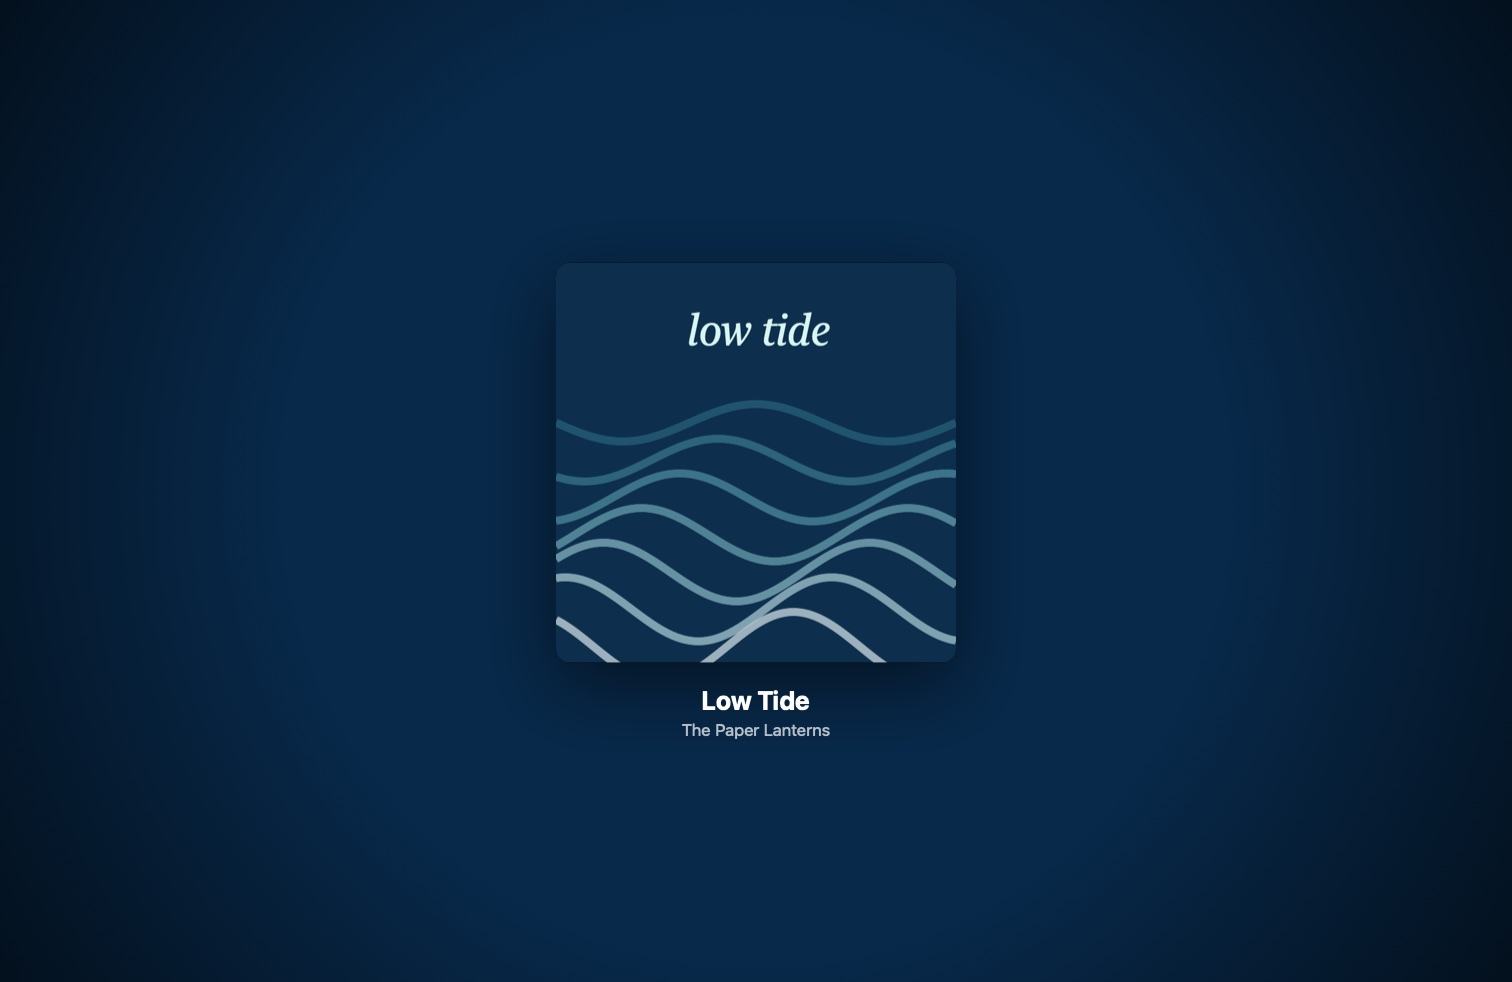
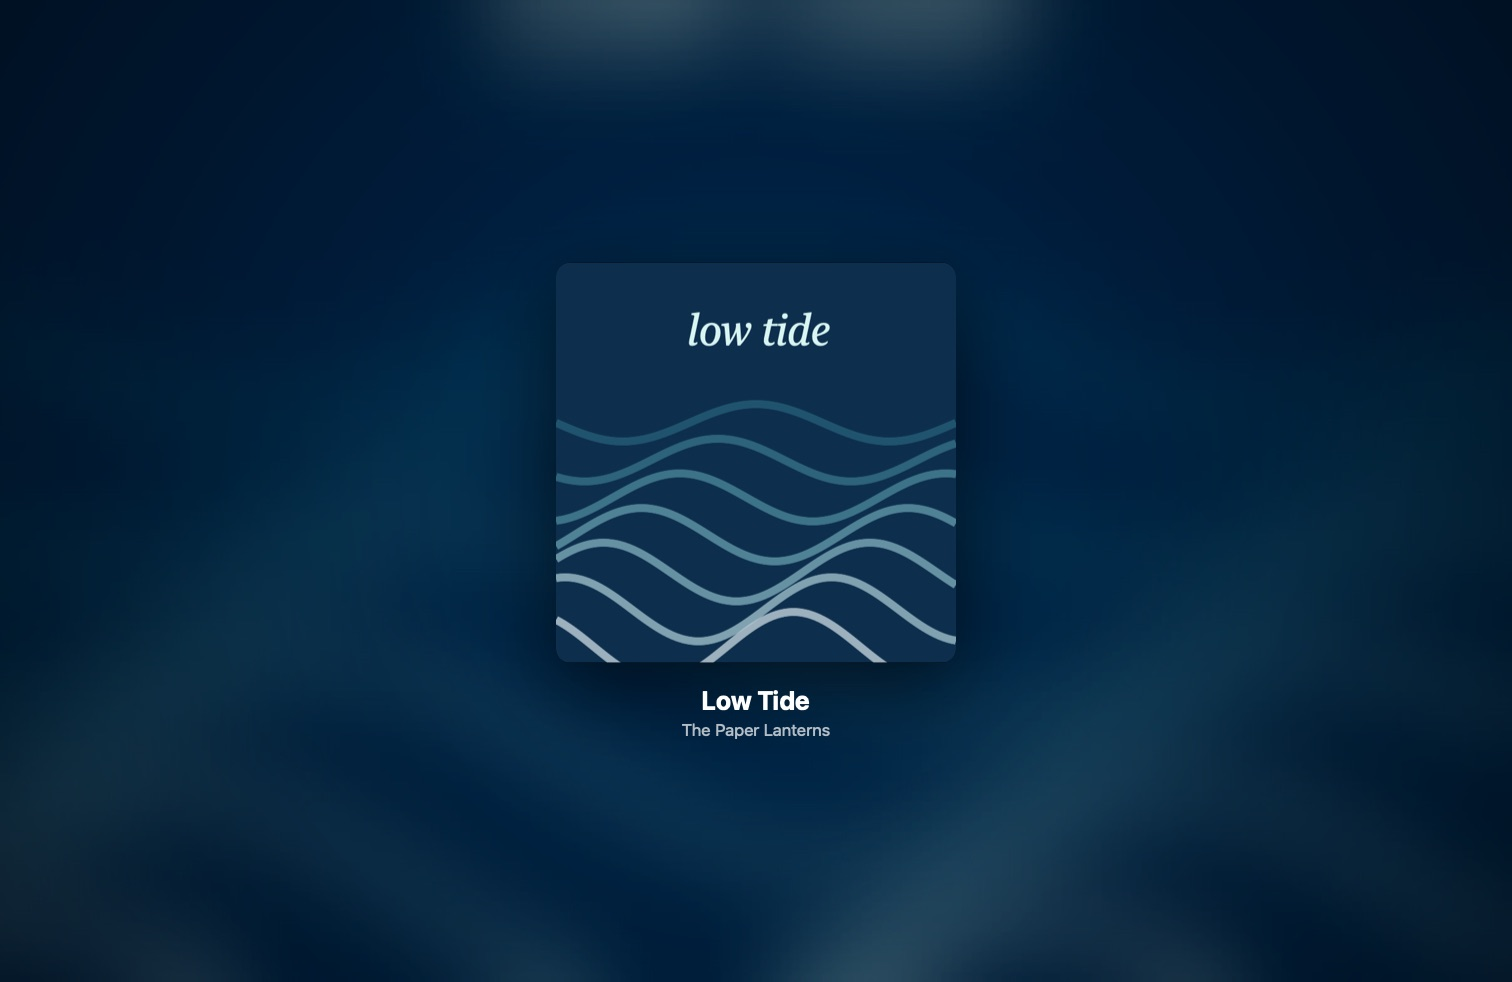
Website from ShawNotch d59cc93

Changed region(s): [[0.5284, 0.8859, 0.6528, 1.0], [0.5284, 0.0, 0.6839, 0.0611], [0.3419, 0.0, 0.4974, 0.0611]]

diff --git a/index.html b/index.html
@@ -420,6 +420,13 @@ p { margin: 0; }
 .record span span { font-size: 13.5px; color: var(--muted); }
 .record[aria-pressed="true"] { border-color: color-mix(in srgb, var(--draw) 70%, #fff 10%); background: color-mix(in srgb, var(--draw) 16%, transparent); }
 .record[aria-pressed="true"] img { transform: rotate(-60deg); }
+/* What's behind the cover, as Settings → Music Mode → Poster background picks it. */
+.backdrops { flex-basis: 100%; display: flex; flex-wrap: wrap; align-items: center; justify-content: center; gap: 10px 14px; font: 500 12px/1 var(--mono); letter-spacing: 0.06em; text-transform: uppercase; color: var(--muted); }
+.seg { display: inline-flex; padding: 4px; border-radius: 999px; border: 1px solid var(--line); background: rgba(255, 255, 255, 0.03); }
+.seg button { padding: 9px 16px; border: 0; border-radius: 999px; background: none; color: var(--muted); font: 600 14px/1 var(--body); letter-spacing: 0; text-transform: none; cursor: pointer; transition: background-color 0.25s ease, color 0.25s ease; }
+.seg button:hover { color: var(--ink); }
+.seg button[aria-pressed="true"] { background: rgba(255, 255, 255, 0.12); color: var(--ink); box-shadow: inset 0 0 0 1px rgba(255, 255, 255, 0.1); }
+.seg button:focus-visible { outline: 2px solid var(--brand); outline-offset: 2px; }
 .switch { display: inline-flex; align-items: center; gap: 12px; padding: 7px 18px 7px 8px; border-radius: 999px; border: 1px solid var(--line); background: rgba(255, 255, 255, 0.03); font: 600 15px/1 var(--body); cursor: pointer; transition: border-color 0.3s ease; }
 .switch:hover { border-color: var(--line-hi); }
 .switch .rail { position: relative; flex: none; width: 46px; height: 28px; border-radius: 14px; background: rgba(255, 255, 255, 0.14); transition: background-color 0.3s ease; }
@@ -747,7 +754,7 @@ footer nav a:hover { color: var(--ink); }
 </div>
 
 <header class="hero" id="top">
-  <div class="wallpaper" aria-hidden="true"><div class="wall-mm"><img id="wall-posterA" src="images/poster-midnight.jpg?v=b5ceeeee2b" alt="" loading="lazy"><img id="wall-posterB" src="images/poster-midnight.jpg?v=b5ceeeee2b" alt="" loading="lazy"></div></div>
+  <div class="wallpaper" aria-hidden="true"><div class="wall-mm"><img id="wall-posterA" src="images/poster-midnight.jpg?v=e570e2e04f" alt="" loading="lazy"><img id="wall-posterB" src="images/poster-midnight.jpg?v=e570e2e04f" alt="" loading="lazy"></div></div>
   <p class="notch-hint rise"><svg viewBox="0 0 24 24" fill="none" stroke="currentColor" stroke-width="2" stroke-linecap="round" stroke-linejoin="round" aria-hidden="true"><path d="M12 19V5M6 11l6-6 6 6"/></svg><span id="notch-hint-text"><b>Psst, the notch up there is real.</b> <span>Hover it, push to its edges, or drop a file on it</span></span></p>
   <div class="wrap hero-copy">
     <p class="kicker rise"><i></i>For MacBooks with a notch, and Macs without one</p>
@@ -785,10 +792,10 @@ footer nav a:hover { color: var(--ink); }
       <div class="head center" data-reveal>
         <span class="tag">Music Mode</span>
         <h2 class="h2">Your whole desktop, <span class="glow">dressed for the record</span></h2>
-        <p class="lead">Switch it on from the notch and icons, widgets and folders take a colour drawn from the album's cover, with the cover hung over your desktop. Switch it off and your own colours come back. Your wallpaper itself isn't changed, unless you ask.</p>
+        <p class="lead">Switch it on from the notch and icons, widgets and folders take a colour drawn from the album's cover, and the cover hangs over your desktop on a blur of itself, like a phone's lock screen. Switch it off and your own colours come back. Your wallpaper itself isn't changed, unless you ask.</p>
       </div>
       <div class="compare" id="compare" data-reveal>
-        <p class="visually-hidden">Two views of the same desktop. Without Music Mode: a blue wallpaper, grey widgets, blue folders and colourful Dock icons. With Music Mode: the album's cover hung over the desktop, and the widgets, folders and Dock icons in the album's colour.</p>
+        <p class="visually-hidden">Two views of the same desktop. Without Music Mode: a blue wallpaper, grey widgets, blue folders and colourful Dock icons. With Music Mode: the album's cover hung over a blurred copy of itself, and the widgets, folders and Dock icons in the album's colour.</p>
         <div class="legend" aria-hidden="true"><span class="off"><i></i>Music Mode off</span><span class="on">Music Mode on<i></i></span></div>
         <div class="laptop">
           <div class="desktop" id="compare-desktop">
@@ -799,8 +806,8 @@ footer nav a:hover { color: var(--ink); }
               <div class="dock"><div class="app"><i></i></div><div class="app"><i></i></div><div class="app"><i></i></div><div class="app"><i></i></div><div class="app"><i></i></div><div class="app"><i></i></div></div>
             </div>
             <div class="desk on" aria-hidden="true">
-              <img class="poster" id="posterA" src="images/poster-midnight.jpg?v=b5ceeeee2b" alt="" loading="lazy">
-              <img class="poster" id="posterB" src="images/poster-midnight.jpg?v=b5ceeeee2b" alt="" loading="lazy" style="opacity: 0">
+              <img class="poster" id="posterA" src="images/poster-midnight.jpg?v=e570e2e04f" alt="" loading="lazy">
+              <img class="poster" id="posterB" src="images/poster-midnight.jpg?v=e570e2e04f" alt="" loading="lazy" style="opacity: 0">
               <div class="widget w-date tinted"><small>Saturday</small><big>10</big></div>
               <div class="widget w-clock tinted"><small>Screen time today</small>4h 12m</div>
               <div class="folders"><div class="folder tinted"></div><div class="folder tinted"></div><div class="folder tinted"></div><div class="folder tinted"></div></div>
@@ -820,6 +827,7 @@ footer nav a:hover { color: var(--ink); }
           <button class="record" type="button" data-song="tide" aria-pressed="false"><img src="images/cover-tide.png?v=3c0edb3d24" alt="" width="42" height="42"><span><b>Low Tide</b><span>The Paper Lanterns</span></span></button>
         </div>
         <button class="switch" id="mm-switch" type="button" role="switch" aria-checked="false"><span class="rail"></span>Music Mode on this page</button>
+        <div class="backdrops" role="group" aria-label="Behind the cover">Behind the cover<span class="seg"><button type="button" data-backdrop="" aria-pressed="true">Blurred cover</button><button type="button" data-backdrop="-glow" aria-pressed="false">Album colour</button></span></div>
       </div>
       <aside class="heads-up" role="note" aria-label="macOS version note" data-reveal>
         <svg viewBox="0 0 20 20" width="20" height="20" aria-hidden="true"><circle cx="10" cy="10" r="8.25" fill="none" stroke="currentColor" stroke-width="1.5"/><path d="M10 9v5" stroke="currentColor" stroke-width="1.7" stroke-linecap="round"/><circle cx="10" cy="6.2" r="1.05" fill="currentColor"/></svg>
@@ -1289,7 +1297,7 @@ footer nav a:hover { color: var(--ink); }
     tray: [
       { name: 'Afterglow cover.png', thumb: 'images/cover-midnight.png?v=255bf0b55b' },
       { name: 'Boarding pass.pdf', kind: 'doc', ext: 'PDF' },
-      { name: 'Desktop idea.jpg', thumb: 'images/poster-ember.jpg?v=c2f25829c1' },
+      { name: 'Desktop idea.jpg', thumb: 'images/poster-ember.jpg?v=029fb376df' },
       { name: 'Setlist.txt', kind: 'doc', ext: 'TXT' },
       { name: 'Demo mix.m4a', kind: 'audio' },
     ],
@@ -2150,9 +2158,12 @@ footer nav a:hover { color: var(--ink); }
     showcase.style.setProperty('--k', k.toFixed(4));
     showcase.classList.toggle('close', close);
   }).observe(macScreen);
-  // In Music Mode the top of the page hangs the record that's on.
+  // In Music Mode the top of the page hangs the record that's on, on what
+  // the visitor picks to go behind it: the cover blurred, or its colour.
+  let backdrop = '';
+  const posterOf = id => `images/poster-${id}${backdrop}.jpg`;
   const hangWall = crossfade([$('wall-posterA'), $('wall-posterB')], '0.55');
-  follow('song', song => hangWall(`images/poster-${song.id}.jpg`), notch.song);
+  follow('song', song => hangWall(posterOf(song.id)), notch.song);
   follow('musicmode', ({ on }) => {
     $('mm-switch').setAttribute('aria-checked', String(on));
     $('mm-note').hidden = !on;
@@ -2212,8 +2223,15 @@ footer nav a:hover { color: var(--ink); }
     records.forEach(button => button.setAttribute('aria-pressed', String(button.dataset.song === song.id)));
     section.style.setProperty('--dtint', song.tint);
     section.style.setProperty('--draw', song.raw);
-    hangDesk(`images/poster-${song.id}.jpg`);
+    hangDesk(posterOf(song.id));
   }
+  const backdrops = [...document.querySelectorAll('[data-backdrop]')];
+  backdrops.forEach(button => button.addEventListener('click', () => {
+    backdrop = button.dataset.backdrop;
+    backdrops.forEach(other => other.setAttribute('aria-pressed', String(other === button)));
+    if (wearing) hangDesk(posterOf(wearing));
+    hangWall(posterOf(notch.song.id));
+  }));
   records.forEach(button => button.addEventListener('click', () => notch.play(button.dataset.song)));
   follow('song', song => { if (!song.byItself) wear(song); }, notch.song);
   $('mm-switch').addEventListener('click', () => notch.setMusicMode(!notch.musicMode));
